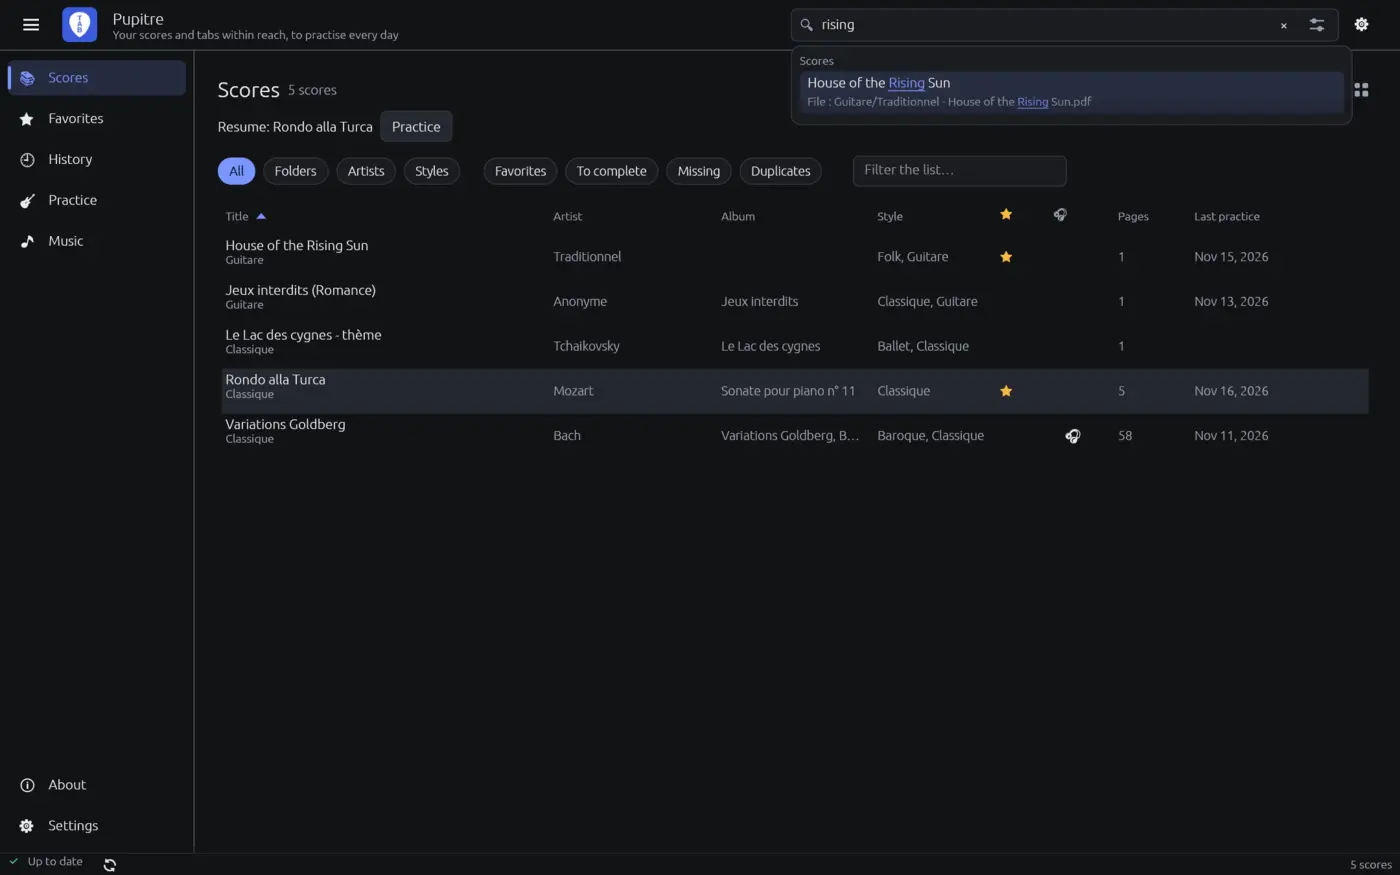
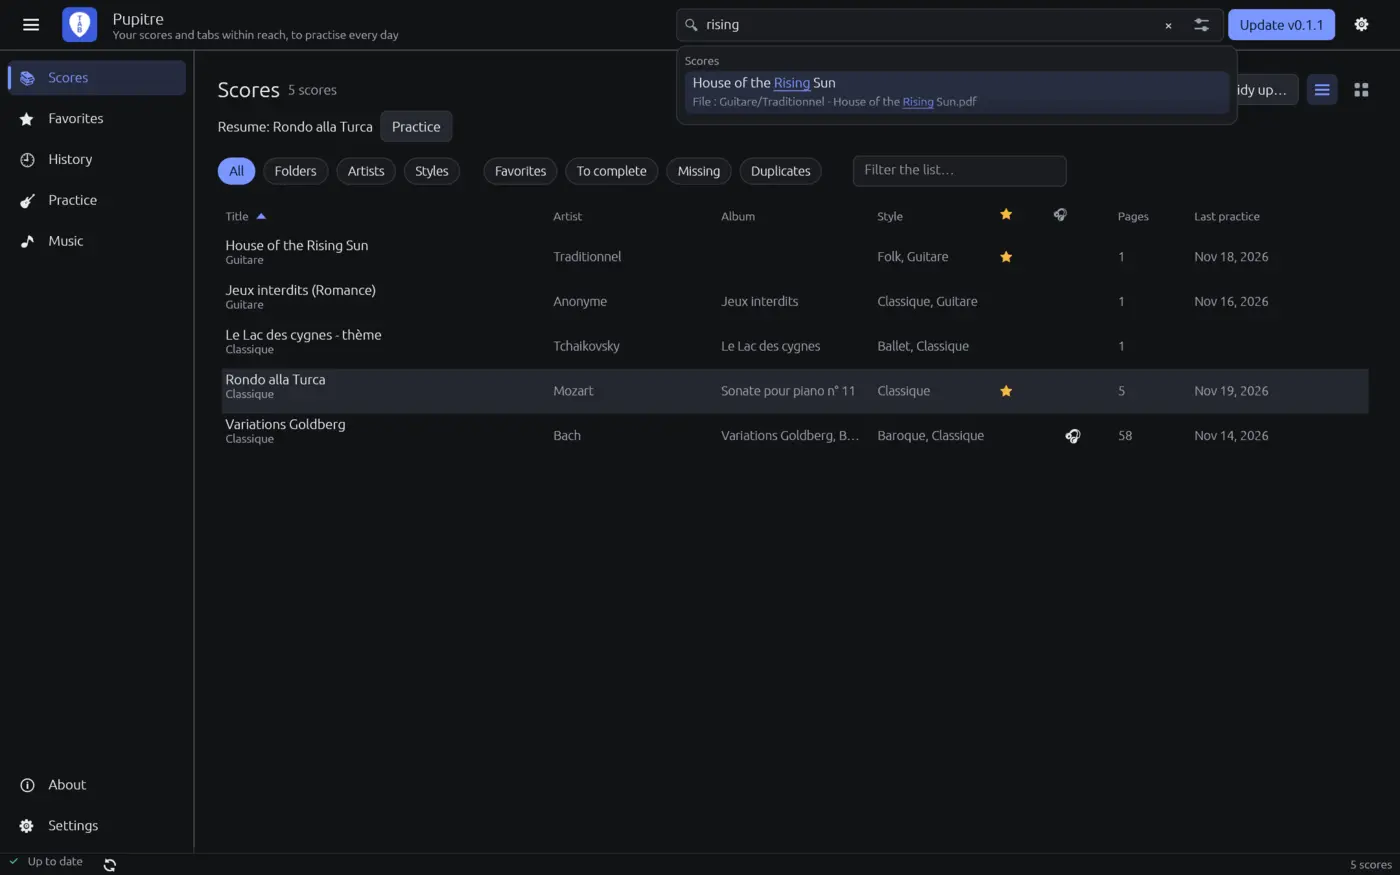
Pupitre 0.2.0

diff --git a/README.md b/README.md
@@ -6,7 +6,7 @@
 
 **Pupitre** — Your scores and tabs within reach, to practise every day
 
-**Version 0.1.1** — [Download](https://github.com/jerome-jouvie/pupitre-releases/releases/tag/v0.1.1)
+**Version 0.2.0** — [Download](https://github.com/jerome-jouvie/pupitre-releases/releases/tag/v0.2.0)
 
 ### About
 
@@ -68,6 +68,43 @@ Available in English and French, with a light and a dark theme, Pupitre runs on 
 </table>
 
 ### Changelog
+
+#### 0.2.0 - 2026-11-20
+
+**Features**
+
+- Distribution: Pupitre now comes as a `.deb`, `.rpm`, AppImage, `.tar.gz` (with a per-user `install.sh`) and Flatpak on Linux, an installer, a program and a portable archive on Windows, and an application on macOS. A `portable.txt` file next to the program keeps all its data beside it. The tray icon (with its menu to control the playlist) now exists on Windows and macOS too.
+- Updates: Pupitre recognises how it was installed (Debian or RPM package, AppImage, portable program, MSI, macOS app, Flatpak…), picks the right file of the new version for your system and processor, and updates itself the right way: the system installer, `msiexec`, or replacing its own file, then offering to restart. A program that replaces itself only accepts a file signed by the author and newer than the running one; the old version stays untouched if anything fails. With Flatpak, it tells you to update with Flatpak.
+- Practice: a metronome (`K`) next to the title: tempo from 30 to 300, tap tempo (`T`), 1 to 12 beats per bar with the first accented, volume, beat lights; it plays along with the audio track and remembers your settings.
+- Music Library: edit a track's metadata (title, artist, album, album artist, genre, number, year, publisher) and save it to the file, once writing tags is allowed in Settings (off by default, with a confirmation). Only the changed fields are written, the audio is never touched, and "Undo" restores the original tags.
+- Music Library: edit the shared metadata of several tracks at once (artist, album, genre, year, publisher…); identical values are prefilled, each changed field can be reset, and the title and track number stay specific to each track.
+- Music Library: after choosing an album edition, you pick each file's track (or leave it alone), the fields taken (current and proposed values side by side) and the edition's cover; "Undo" puts the previous cover back.
+- Music Library: look metadata up on MusicBrainz by title (one track) or by album name (several tracks of the same album), with an editable search text; the chosen result or edition is prepared, then written only when you click "Save".
+- Updates: once the new version is installed, a message and a "Restart" button in the top bar open it in place of the old one.
+- Scores Library and Music Library: a cross at the top right closes the details panel, including for a multiple selection.
+
+**Improvements**
+
+- Each song's capo is now in sight, at its right, in the song list and in the Annotations panel ("Capo 2" or "No capo"): two clicks set, change or remove it.
+- Practice: the Up and Down arrows scroll three quarters of a screen (one page at most) instead of a few lines.
+- Online search: MusicBrainz and the Cover Art Archive are contacted in the name of the program's author, as they ask: the "Contact" setting is gone; the settings show the identification sent, with an (i) button that explains it.
+- "About" shows the author, Jérôme Jouvie, and their address.
+- Scores Library and Music Library: an artist written "A, B; C" appears under each of the three names when grouping by artist.
+- Scores Library and Music Library: the chosen grouping (Folders, Artists, Albums, Genres, Styles) shows a "×": a click on it deselects it.
+- Music Library: the sorted column is kept when you filter on an album, an artist or a genre (opening an album no longer puts the track-number order back); the default order is artist, then album and track number, and a click on "All" restores it (not when "All" becomes active through another action).
+- Music Library: in the browsing panel, "All" becomes "All tracks".
+- Music Library: a single button, "Listening list (n)", adds the selection to the playlist, or every track shown when nothing is selected.
+- Music Library: reorganised details panel: "Listen" with the headphones icon, then the metadata (and their editing), the online search and the file information; the duplicate add-to-playlist button is gone.
+- Windows and macOS: the program shows its copyright (© 2026 Jérôme Jouvie) in its properties and its About window.
+
+**Fixes**
+
+- Practice: a very tall image (a long tab, for instance) shown at full width no longer crashes the application.
+- Online search: while MusicBrainz is unavailable, the buttons that would send a request are greyed out (with the reason and the time left) and come back by themselves when the wait is over; messages are shorter ("MusicBrainz is overloaded (global zone). Wait 1 min before trying again.").
+- Online search: one request at a time, at least a second apart. If MusicBrainz does not answer (or returns a 502), the application says so and pauses searches for 5 minutes; if it is overloaded (error 503), it tries twice more, 5 seconds apart, then explains the overload and pauses searches for 1 minute. When MusicBrainz states its limit (`Retry-After` and `X-RateLimit-…` headers), the application follows it instead of its own delays: no new attempt when the servers are overloaded (global zone), a new attempt after the delay given when it is your address that is limited. The request details show each attempt and the `X-…` headers of the answer.
+- Online search: copying the request details now copies the whole response, not just its beginning.
+- Linux: the .deb package names its real maintainer instead of an example address.
+- Windows and macOS: the update window no longer offers to download the Linux package (which could not be installed); it explains that the update is done by hand from the release page.
 
 #### 0.1.1 - 2026-11-16
 
@@ -146,7 +183,7 @@ Available in English and French, with a light and a dark theme, Pupitre runs on 
 
 **Pupitre** — Vos partitions et tablatures à portée de main, pour pratiquer chaque jour
 
-**Version 0.1.1** — [Télécharger](https://github.com/jerome-jouvie/pupitre-releases/releases/tag/v0.1.1)
+**Version 0.2.0** — [Télécharger](https://github.com/jerome-jouvie/pupitre-releases/releases/tag/v0.2.0)
 
 ### Présentation
 
@@ -208,6 +245,43 @@ Disponible en français et en anglais, avec un thème clair et un thème sombre,
 </table>
 
 ### Journal des changements
+
+#### 0.2.0 - 2026-11-20
+
+**Fonctionnalités**
+
+- Distribution : Pupitre est proposé en `.deb`, `.rpm`, AppImage, `.tar.gz` (avec un `install.sh` par utilisateur) et Flatpak sous Linux, en installeur, programme seul et archive portable sous Windows, et en application sous macOS. Un fichier `portable.txt` à côté du programme garde toutes ses données à côté de lui. L'icône de la zone de notification (et son menu de contrôle de la liste de lecture) existe aussi sous Windows et macOS.
+- Mise à jour : Pupitre reconnaît comment il a été installé (paquet Debian ou RPM, AppImage, programme portable, MSI, application macOS, Flatpak…), choisit le bon fichier de la nouvelle version pour votre système et votre processeur et se met à jour de la bonne manière : installeur du système, `msiexec`, ou remplacement de son propre fichier puis proposition de redémarrer. Un programme qui se remplace lui-même n'accepte qu'un fichier signé par l'auteur et plus récent que celui qui tourne ; l'ancienne version reste intacte en cas d'échec. Avec Flatpak, il indique de passer par Flatpak.
+- Pratique : un métronome (`K`) à côté du titre : tempo de 30 à 300, tempo tapé (`T`), 1 à 12 temps par mesure avec le premier accentué, volume, voyants des temps ; il joue en même temps que la piste audio et retient vos réglages.
+- Audiothèque : modifier les métadonnées d'un morceau (titre, artiste, album, artiste de l'album, genre, numéro, année, éditeur) et les enregistrer dans le fichier, une fois l'écriture des étiquettes autorisée dans les Réglages (désactivée par défaut, avec confirmation). Seuls les champs modifiés sont écrits, le son n'est jamais touché et « Annuler » rétablit les étiquettes d'origine.
+- Audiothèque : modifier en une fois les métadonnées communes de plusieurs morceaux (artiste, album, genre, année, éditeur…) ; les valeurs identiques sont préremplies, chaque champ modifié peut être rétabli, le titre et le numéro de piste restent propres à chaque morceau.
+- Audiothèque : après le choix d'une édition d'album, vous choisissez la piste de chaque fichier (ou de ne pas le modifier), les champs repris (valeurs actuelles et proposées côte à côte) et la pochette de l'édition ; « Annuler » remet l'ancienne pochette.
+- Audiothèque : chercher les métadonnées sur MusicBrainz par titre (un morceau) ou par nom d'album (plusieurs morceaux du même album), avec un texte de recherche modifiable ; le résultat ou l'édition choisie est préparé, puis écrit seulement quand vous cliquez sur « Enregistrer ».
+- Mise à jour : une fois la nouvelle version installée, un message et un bouton « Redémarrer » dans la barre du haut l'ouvrent à la place de l'ancienne.
+- Partothèque et Audiothèque : une croix en haut à droite ferme le panneau de détail, y compris pour une sélection multiple.
+
+**Améliorations**
+
+- Le capodastre de chaque morceau est maintenant en vue, à sa droite, dans la liste des morceaux et dans le panneau Annotations (« Capo 2 » ou « Sans capo ») : deux clics suffisent pour le poser, le changer ou le retirer.
+- Pratique : les flèches haut et bas défilent des trois quarts de l'écran (une page au plus) au lieu de quelques lignes.
+- Recherche en ligne : MusicBrainz et la Cover Art Archive sont contactés au nom de l'auteur du programme, comme ils le demandent : le réglage « Contact » disparaît ; les réglages montrent l'identification envoyée, avec un bouton (i) qui l'explique.
+- « À propos » indique l'auteur, Jérôme Jouvie, et son adresse.
+- Partothèque et Audiothèque : un artiste noté « A, B ; C » apparaît sous chacun des trois noms dans le regroupement par artiste.
+- Partothèque et Audiothèque : le regroupement choisi (Dossiers, Artistes, Albums, Genres, Styles) affiche un « × » : un clic dessus le désélectionne.
+- Audiothèque : la colonne triée est conservée quand vous filtrez sur un album, un artiste ou un genre (ouvrir un album ne remet plus le tri par numéro) ; le tri par défaut est artiste puis album et numéro, et un clic sur « Tout » le rétablit (pas quand « Tout » redevient actif par une autre action).
+- Audiothèque : dans le panneau de parcours, « Tout » devient « Tous les morceaux ».
+- Audiothèque : un seul bouton, « Liste d'écoute (n) », ajoute à la liste de lecture la sélection, ou tous les morceaux affichés quand rien n'est sélectionné.
+- Audiothèque : panneau de détail réorganisé : « Écouter » avec l'icône casque, puis les métadonnées (et leur modification), la recherche en ligne et les informations du fichier ; le bouton d'ajout à la liste, en double, disparaît.
+- Windows et macOS : le programme indique son copyright (© 2026 Jérôme Jouvie) dans ses propriétés et sa fenêtre « À propos ».
+
+**Correctifs**
+
+- Pratique : une image très haute (une longue tablature, par exemple) affichée en pleine largeur ne fait plus planter l'application.
+- Recherche en ligne : pendant une indisponibilité de MusicBrainz, les boutons qui enverraient une requête sont grisés (avec l'explication et le temps restant) et se réactivent d'eux-mêmes à la fin de l'attente ; les messages sont plus courts (« MusicBrainz est surchargé (zone globale). Patientez 1 min avant de réessayer. »).
+- Recherche en ligne : une seule requête à la fois, espacées d'au moins une seconde. Si MusicBrainz ne répond pas (ou erreur 502), l'application le dit et suspend les recherches 5 minutes ; s'il est surchargé (erreur 503), elle réessaie deux fois à 5 secondes d'écart, puis explique la surcharge et suspend les recherches 1 minute. Quand MusicBrainz indique sa limite (en-têtes `Retry-After` et `X-RateLimit-…`), l'application s'y conforme à la place de ses délais : pas de nouvel essai quand les serveurs sont surchargés (zone globale), un nouvel essai après le délai indiqué quand c'est votre adresse qui est limitée. Les détails de la requête affichent chaque essai et les en-têtes `X-…` de la réponse.
+- Recherche en ligne : la copie des détails de la requête contient toute la réponse, plus seulement son début.
+- Linux : le paquet .deb indique son vrai mainteneur au lieu d'une adresse d'exemple.
+- Windows et macOS : la fenêtre de mise à jour ne propose plus de télécharger le paquet Linux (impossible à installer) ; elle explique que la mise à jour se fait à la main depuis la page de la version.
 
 #### 0.1.1 - 2026-11-16
 
